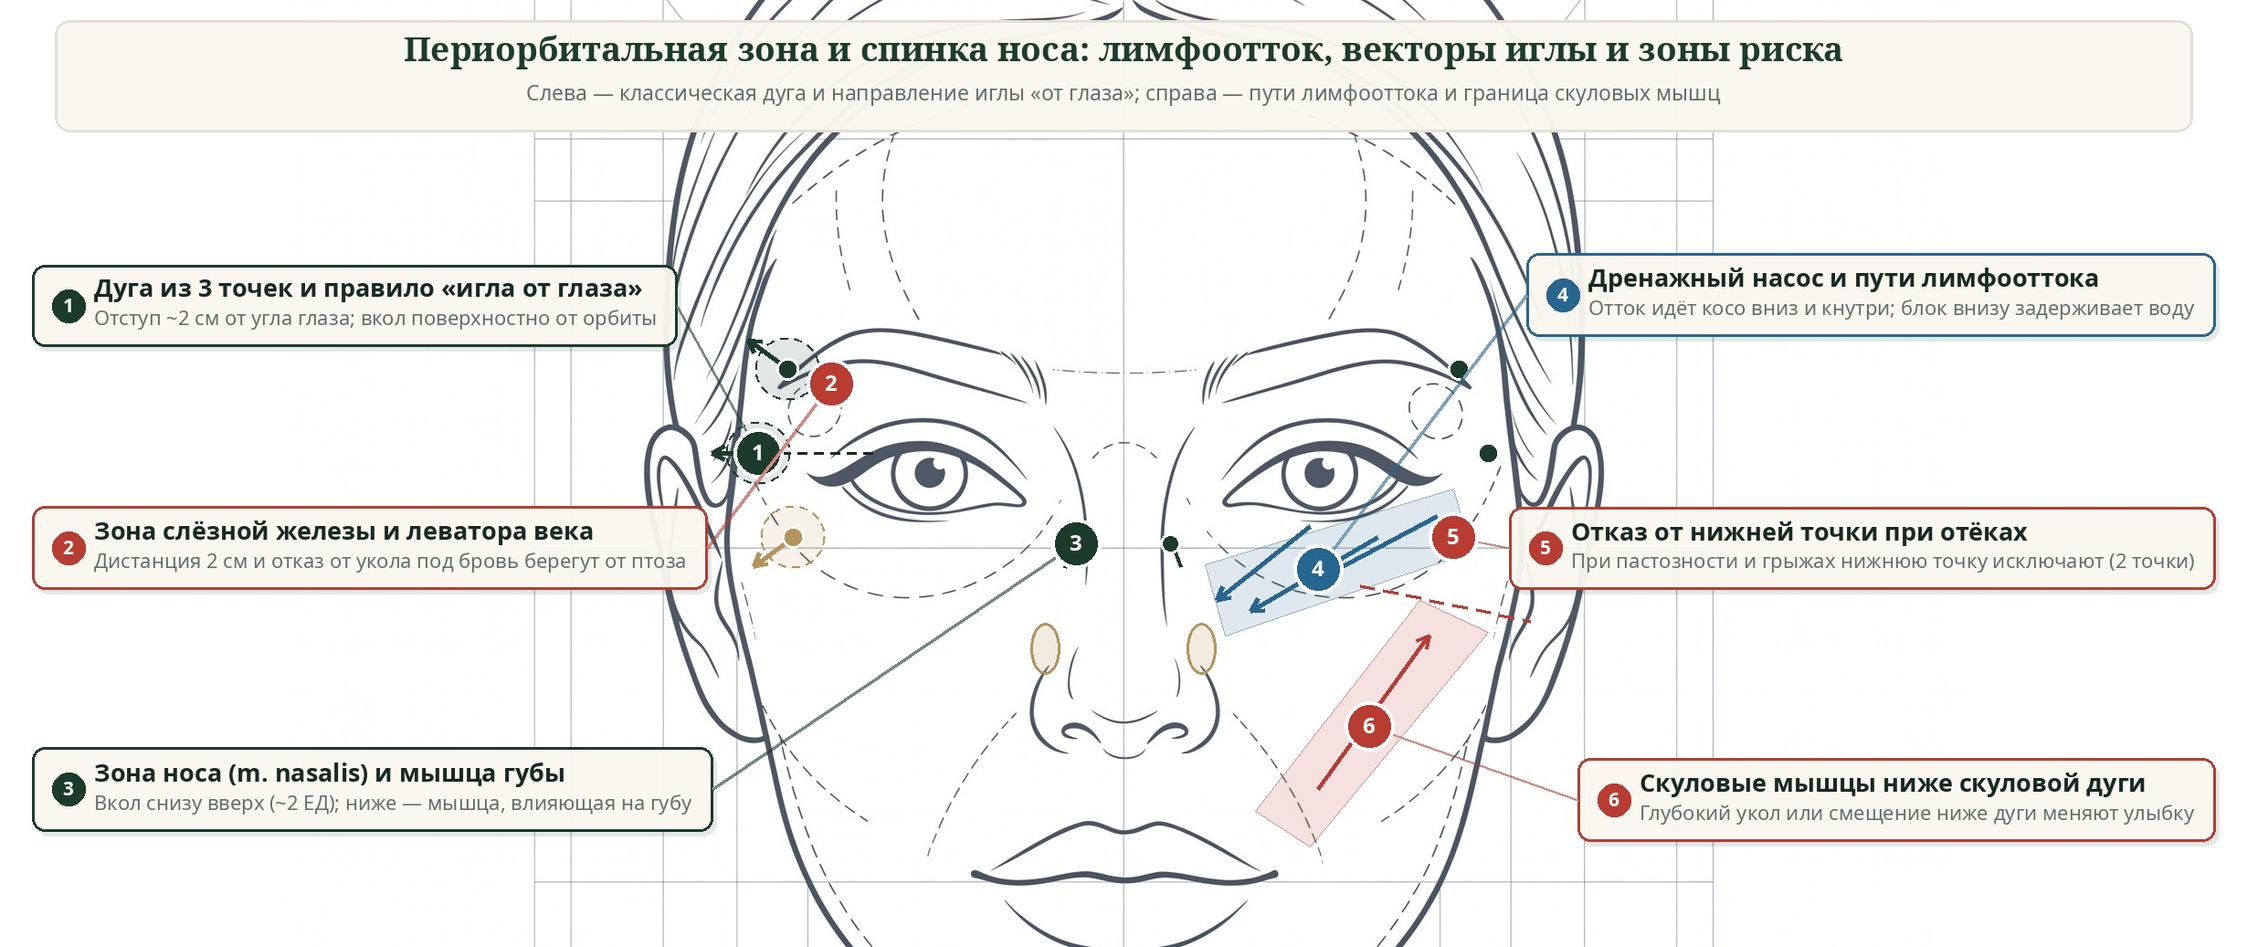
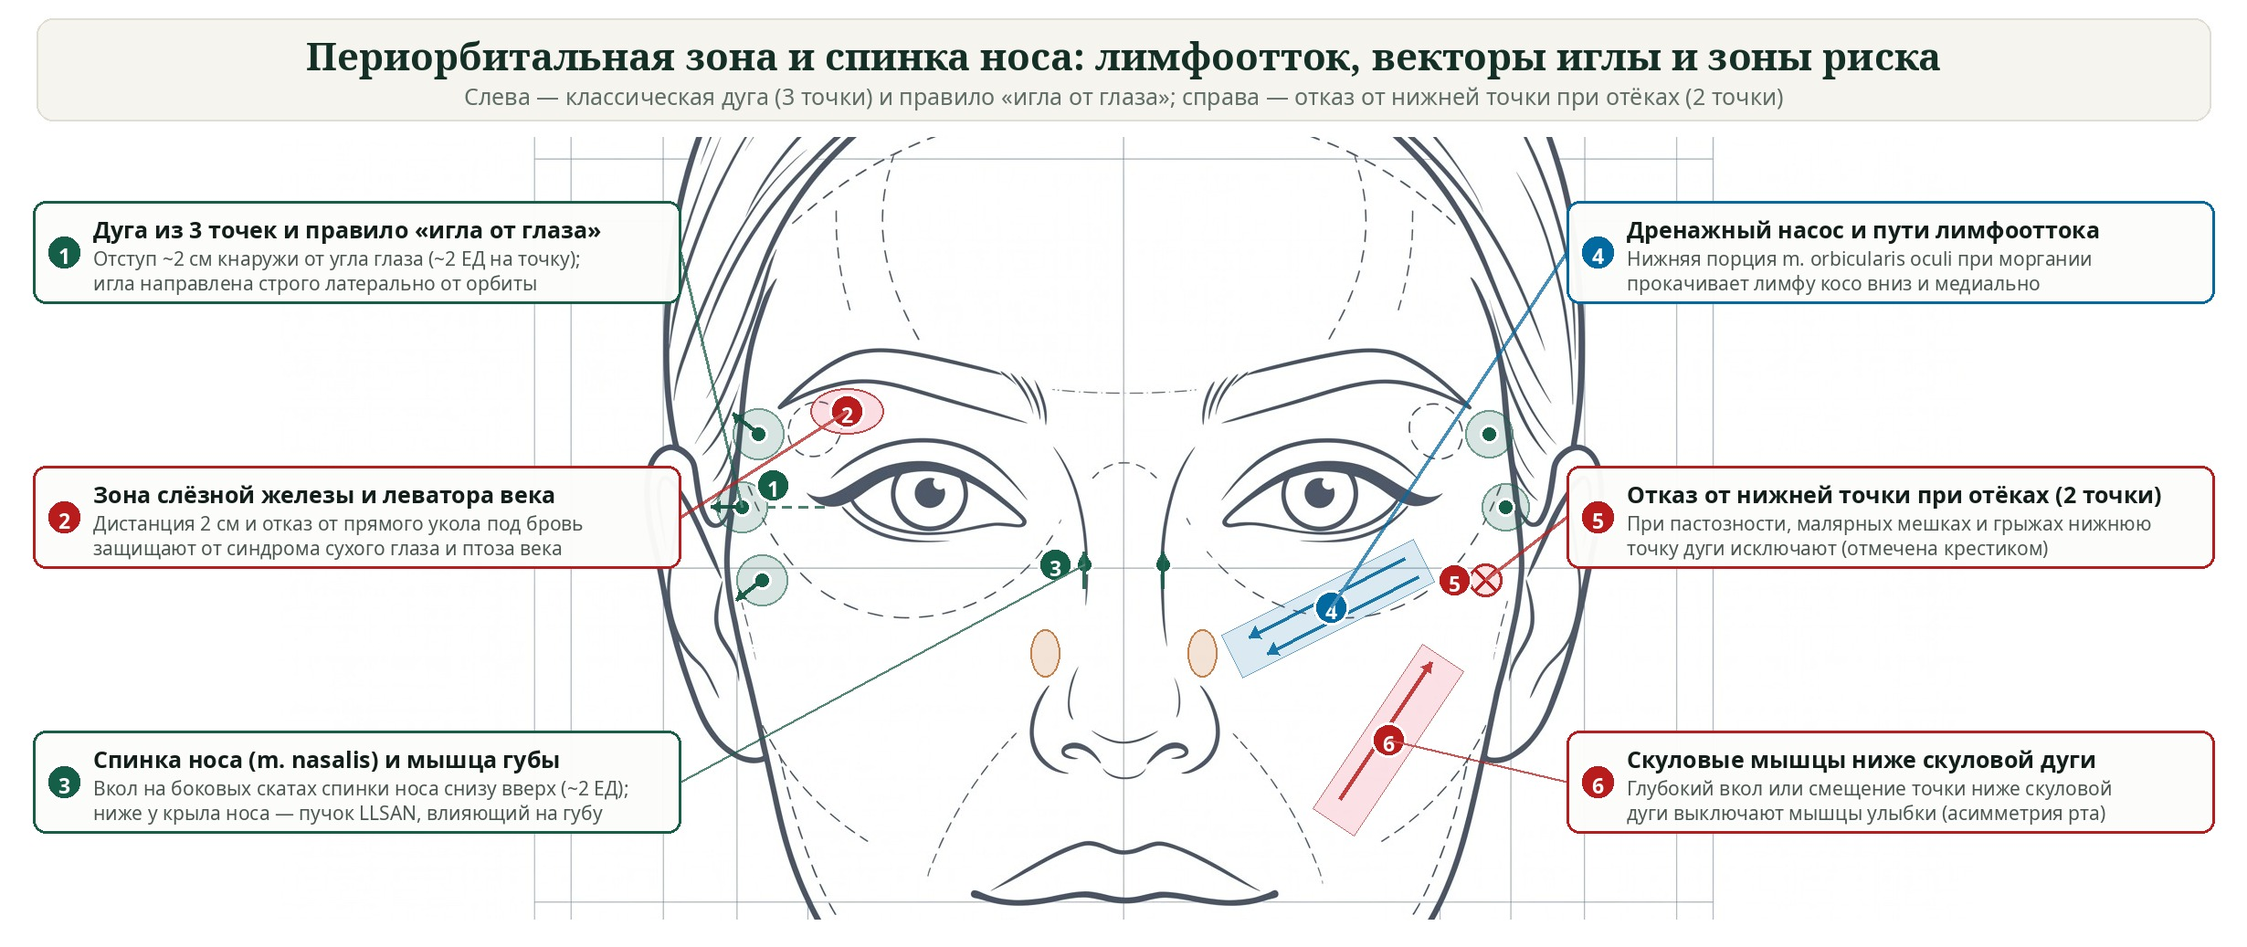
Fix anatomical injection point coordinates on Botox maps and remove duplicate PRO cards

diff --git a/03_Сайт_Исходники/botoks-lob-i-mezhbrove.html b/03_Сайт_Исходники/botoks-lob-i-mezhbrove.html
@@ -141,7 +141,7 @@
 </ol>
 <p>Мышцы межбровья — одни из самых сильных на лице, и это принципиально определяет клиническую стратегию: здесь важно ввести полноценную рабочую дозу в центральную часть (головку) мышцы, а не «размазывать» препарат по множеству поверхностных точек.</p>
 
-<figure class="editorial-figure"><img alt="Схема разметки лба и межбровья: безопасная граница 2-2,5 см, ореолы диффузии, базовая схема 3+2 и зона риска хвоста корругатора" decoding="async" height="1083" loading="lazy" src="assets/img/botox-forehead-glabella-map.jpg" width="2320"/><figcaption>Карта безопасности лба и глабеллы: точки на лбу располагаются выше красной пограничной линии (отступ не менее 2–2,5 см от костного края орбиты), а в межбровье препарат вводится в головки корругаторов и процерус с охватом латерального хвоста за счёт диффузии.</figcaption></figure>
+<figure class="editorial-figure"><img alt="Схема разметки лба и межбровья: безопасная граница 2-2,5 см, ореолы диффузии, базовая схема 3+2 и зона риска хвоста корругатора" decoding="async" height="1083" loading="lazy" src="assets/img/botox-forehead-glabella-map.jpg" width="2320"/><figcaption>Карта безопасности лба и глабеллы: точки на лбу располагаются по верхней линии сокращения выше красной пограничной линии (отступ не менее 2–2,5 см от костного края орбиты, не выходя за латеральные границы лобного брюшка); в межбровье базовые точки ставятся в головки корругаторов (над внутренним углом глаза) и в процерус, а при схеме «3 + 2» дополняются двумя симметричными поверхностными точками (~1 ЕД) у корня носа.</figcaption></figure>
 
 <h3 id="section-2-3">Почему эти зоны биомеханически связаны</h3>
 <p>Если расслабить только межбровье, лобная мышца начинает работать активнее: она больше не уравновешена мышцами-опускателями, и на лбу могут появиться компенсаторные горизонтальные линии. Обратная ситуация — полностью «выключенный» лоб при сохранённой тяге межбровья: брови опускаются под действием неблокированных депрессоров, взгляд становится тяжёлым.</p>
@@ -157,7 +157,7 @@
 <p>Грамотная клиническая тактика строится иначе: достаточную дозу (3–5 ЕД у женщин, 5–7 ЕД у мужчин) вводят в <strong>головку</strong> корругатора (медиальную часть, на 2 мм выше края брови в проекции мышечного валика), и за счёт объёма и диффузии препарат распределяется вдоль волокон, блокируя в том числе хвост мышцы. Если к 14-му дню латеральный пучок сохранил остаточную активность, его точечно дорабатывают микродозой на осмотре — это несравнимо безопаснее.</p>
 
 <h3 id="section-3-3">Дополнительные точки у корня носа (схема «3 + 2»)</h3>
-<p>Базовая разметка глабеллы включает <strong>3 точки</strong>: две в головках корругаторов и одну по срединной линии в <em>m. procerus</em>. Но если при пробе «нахмуриться» видно, что головки бровей активно тянутся вниз с образованием косых складок у корня носа, — в работу вовлечена <em>m. depressor supercilii</em>. В таком случае схему расширяют до <strong>5 точек («3 + 2»)</strong>: добавляют по одной поверхностной (микропапульной) точке ~1 ЕД на боковых скатах корня носа.</p>
+<p>Базовая разметка глабеллы включает <strong>3 точки</strong>: две в головках корругаторов и одну по срединной линии в <em>m. procerus</em>. Но если при пробе «нахмуриться» видно, что головки бровей активно тянутся вниз с образованием косых складок у корня носа, — в работу вовлечена <em>m. depressor supercilii</em>. В таком случае схему расширяют до <strong>5 точек («3 + 2»)</strong>: добавляют симметрично по одной поверхностной (микропапульной) точке ~1 ЕД с обеих сторон у корня носа и медиального края брови (в проекции волокон <em>m. depressor supercilii</em>).</p>
 
 <h3 id="section-3-4">Глубина введения и работа в «защипе» с фиксацией края орбиты</h3>
 <p>В межбровной зоне головка корругатора и процерус залегают глубоко, поэтому инъекцию выполняют в толщу мышечного валика (на глубину 4–6 мм), предварительно захватив его пальцами в плотную кожно-мышечную складку — <strong>«защип»</strong>. При этом вторым пальцем врач фиксирует и прижимает верхний край орбиты.</p>

diff --git a/03_Сайт_Исходники/botoks-gusinye-lapki-i-nos.html b/03_Сайт_Исходники/botoks-gusinye-lapki-i-nos.html
@@ -136,7 +136,7 @@
 </ul>
 <p>Отсюда фундаментальный клинический вывод: <strong>выключение нижней порции круговой мышцы глаза у пациента со склонностью к задержке жидкости останавливает дренажный насос</strong> и приводит к длительным отёкам под глазами. Это не «аллергия на ботокс», а прямое физиологическое следствие остановки мышечной помпы.</p>
 
-<figure class="editorial-figure"><img alt="Схема ботулинотерапии периорбитальной зоны и носа: дуга из 3 точек, направление иглы от глаза, пути лимфооттока и опасная зона скуловых мышц" decoding="async" height="1037" loading="lazy" src="assets/img/botox-periorbital-nose-map.jpg" width="2460"/><figcaption>Анатомическая навигация вокруг глаз и на спинке носа: слева показана классическая дуга в 2 см от угла глаза и вектор иглы «от орбиты»; справа — косо-медиальный путь лимфооттока, исключение нижней точки при пастозности и граница большой и малой скуловых мышц.</figcaption></figure>
+<figure class="editorial-figure"><img alt="Схема ботулинотерапии периорбитальной зоны и носа: дуга из 3 точек, направление иглы от глаза, пути лимфооттока и опасная зона скуловых мышц" decoding="async" height="1037" loading="lazy" src="assets/img/botox-periorbital-nose-map.jpg" width="2460"/><figcaption>Анатомическая навигация вокруг глаз и на спинке носа: слева показана классическая дуга из 3 точек в 2 см кнаружи от наружного угла глаза (с векторами иглы строго «от орбиты») и точка на боковом скате спинки носа (m. nasalis, вкол снизу вверх); справа — модифицированная схема из 2 точек с исключением нижней точки (отмечена крестиком) для сохранения лимфооттока нижнего века.</figcaption></figure>
 
 <h3 id="section-2-2">Соседи, которых важно не задеть</h3>
 <p>Периорбитальная область отличается минимальной толщиной подкожной клетчатки и высокой плотностью функционально важных структур:</p>

diff --git a/03_Сайт_Исходники/botoks-mikropapulnaya-tehnika-pod-glazami.html b/03_Сайт_Исходники/botoks-mikropapulnaya-tehnika-pod-glazami.html
@@ -129,7 +129,7 @@
 <h3 id="section-3-1">1. Внутрикожные микропапулы под нижним веком</h3>
 <p>Первый этап направлен на самые заметные складки под нижним веком, которые собираются при прищуре. Врач ставит <strong>две микропапулы с каждой стороны</strong> строго внутрикожно в проекции мимических линий:</p>
 <ul>
-<li><strong>Отступ безопасности:</strong> точки располагают на расстоянии <strong>3–5 мм ниже ресничного края</strong> нижнего века (подходить ближе к ресницам нельзя, чтобы не ослабить тарзальную порцию мышцы, прижимающую веко к глазному яблоку).</li>
+<li><strong>Отступ безопасности и локализация:</strong> две микропапулы располагают под центральной и латеральной частью нижнего века (не смещаясь в медиальную зону носослёзной борозды) строго на расстоянии <strong>3–5 мм ниже ресничного края</strong>, чтобы не ослабить тарзальную порцию мышцы, прижимающую веко к глазному яблоку.</li>
 <li><strong>Траектория иглы:</strong> шприц держат практически <strong>параллельно поверхности кожи</strong> (по касательной, срезом вверх), вводя иглу буквально на 1–1,5 мм в верхний слой дермы.</li>
 <li><strong>Микродозировка:</strong> в каждую микропапулу вводится минимальная доза (ориентировочно около <strong>0,5 ЕД</strong> в пересчёте на стандартную концентрацию), что формирует крошечный внутрикожный бугорок («папулу»).</li>
 </ul>

diff --git a/03_Сайт_Исходники/vrachebnye-razbory.html b/03_Сайт_Исходники/vrachebnye-razbory.html
@@ -53,18 +53,6 @@
 <h2>Тактика, а не список процедур</h2>
 <div class="grid grid--2">
 <a class="article-card" href="botulinoterapiya-verhnej-treti.html">
-<h3>Ботулинотерапия верхней трети: механизм, диффузия и дозировки</h3>
-<p>Как распределяется препарат (радиус ~2 см), почему единицы разных брендов не эквивалентны и по какой логике строится индивидуальная доза.</p>
-</a>
-<a class="article-card" href="botoks-lob-i-mezhbrove.html">
-<h3>Лоб и межбровье: безопасная линия и работа в «защипе»</h3>
-<p>Антагонизм лобной мышцы и депрессоров глабеллы, почему не начинают с «хвостов» корругатора и как избежать опущения бровей.</p>
-</a>
-<a class="article-card" href="botoks-gusinye-lapki-i-nos.html">
-<h3>«Гусиные лапки» и зона носа: лимфоотток и мимическая компенсация</h3>
-<p>Мышечная помпа нижнего века, осознанный отказ от нижней точки при пастозности, правило «игла от глаза» и спинка носа.</p>
-</a>
-<a class="article-card" href="botulinoterapiya-verhnej-treti.html">
 <h3>Ботулинотерапия верхней трети: биомеханика, диффузия и дозировки</h3>
 <p>Баланс единственного леватора лба и депрессоров глабеллы, радиус диффузии 2 см и клиническая логика подбора единиц.</p>
 </a>
